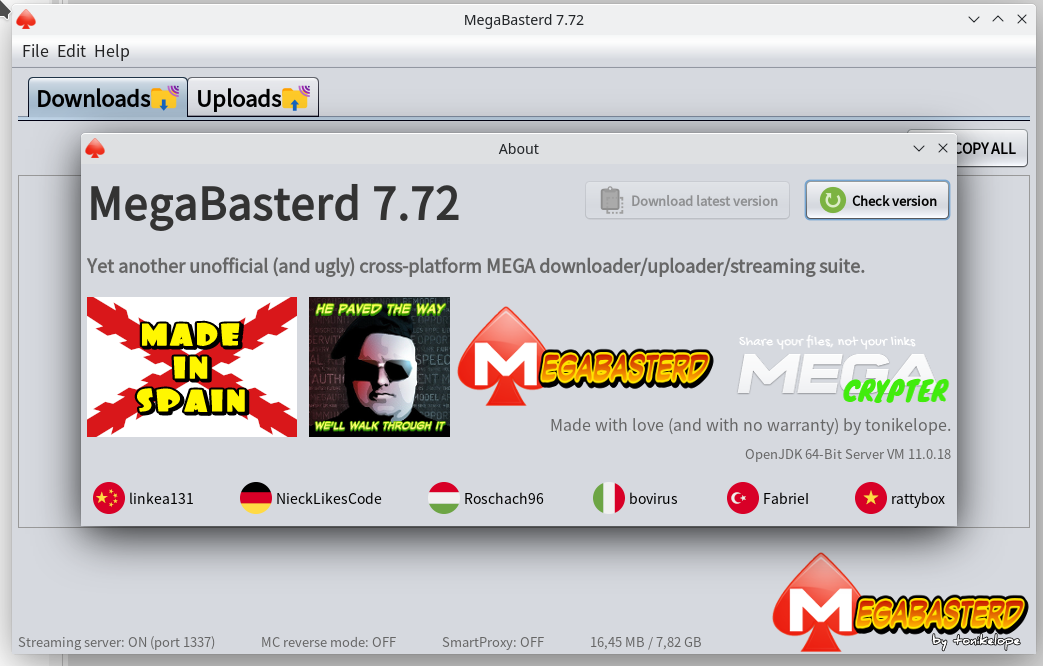
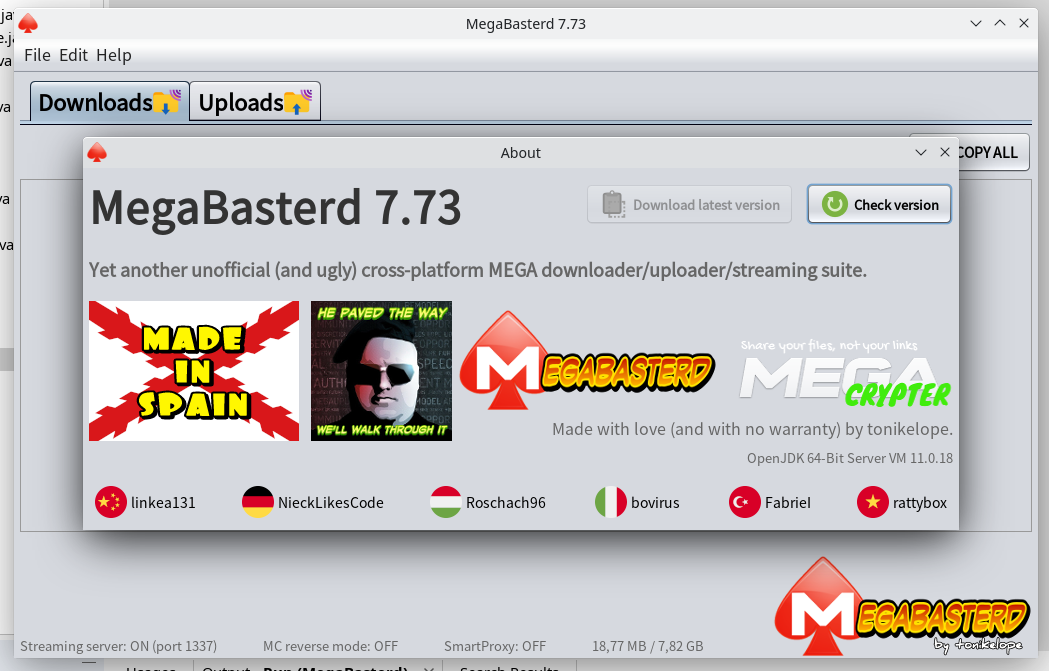
7.73
CBC-MAC optimization

diff --git a/src/main/java/com/tonikelope/megabasterd/UploadMACGenerator.java b/src/main/java/com/tonikelope/megabasterd/UploadMACGenerator.java
@@ -11,10 +11,10 @@ package com.tonikelope.megabasterd;
 
 import static com.tonikelope.megabasterd.CryptTools.*;
 import static com.tonikelope.megabasterd.MiscTools.*;
-import java.io.BufferedInputStream;
-import java.io.FileInputStream;
-import java.io.IOException;
+import java.io.ByteArrayInputStream;
+import java.io.ByteArrayOutputStream;
 import java.util.HashMap;
+import java.util.concurrent.ConcurrentHashMap;
 import java.util.logging.Level;
 import java.util.logging.Logger;
 import javax.crypto.BadPaddingException;
@@ -33,6 +33,7 @@ public class UploadMACGenerator implements Runnable, SecureSingleThreadNotifiabl
     private final Object _secure_notify_lock;
     private boolean _notified;
     private volatile boolean _exit;
+    public final ConcurrentHashMap<Long, ByteArrayOutputStream> CHUNK_QUEUE = new ConcurrentHashMap<>();
 
     public UploadMACGenerator(Upload upload) {
         _secure_notify_lock = new Object();
@@ -122,36 +123,40 @@ public class UploadMACGenerator implements Runnable, SecureSingleThreadNotifiabl
 
             Cipher cryptor = genCrypter("AES", "AES/CBC/NoPadding", _upload.getByte_file_key(), i32a2bin(mac_iv));
 
-            try ( BufferedInputStream is = new BufferedInputStream(new FileInputStream(_upload.getFile_name()))) {
+            int[] chunk_mac = new int[4];
+            byte[] byte_block = new byte[16];
+            byte[] chunk_bytes;
 
-                if (tot > 0) {
-                    is.skip(tot);
-                }
+            try {
+                while (!_exit && !_upload.isStopped() && !_upload.getMain_panel().isExit()) {
 
-                int[] chunk_mac = new int[4];
-                byte[] byte_block = new byte[16];
+                    int reads;
 
-                try {
-                    while (!_exit && !_upload.isStopped() && !_upload.getMain_panel().isExit()) {
+                    long chunk_offset = ChunkWriterManager.calculateChunkOffset(chunk_id, 1);
 
-                        int reads;
+                    long chunk_size = ChunkWriterManager.calculateChunkSize(chunk_id, _upload.getFile_size(), chunk_offset, 1);
 
-                        long chunk_offset = ChunkWriterManager.calculateChunkOffset(chunk_id, 1);
+                    ChunkWriterManager.checkChunkID(chunk_id, _upload.getFile_size(), chunk_offset);
 
-                        long chunk_size = ChunkWriterManager.calculateChunkSize(chunk_id, _upload.getFile_size(), chunk_offset, 1);
+                    while (!CHUNK_QUEUE.containsKey(chunk_offset)) {
+                        MiscTools.pausar(1000);
+                    }
 
-                        ChunkWriterManager.checkChunkID(chunk_id, _upload.getFile_size(), chunk_offset);
+                    try {
 
-                        try {
+                        chunk_mac[0] = file_iv[0];
+                        chunk_mac[1] = file_iv[1];
+                        chunk_mac[2] = file_iv[0];
+                        chunk_mac[3] = file_iv[1];
 
-                            chunk_mac[0] = file_iv[0];
-                            chunk_mac[1] = file_iv[1];
-                            chunk_mac[2] = file_iv[0];
-                            chunk_mac[3] = file_iv[1];
+                        long conta_chunk = 0L;
 
-                            long conta_chunk = 0L;
+                        try ( ByteArrayOutputStream baos = CHUNK_QUEUE.remove(chunk_offset)) {
+                            chunk_bytes = baos.toByteArray();
+                        }
 
-                            while (conta_chunk < chunk_size && (reads = is.read(byte_block)) != -1) {
+                        try ( ByteArrayInputStream bais = new ByteArrayInputStream(chunk_bytes)) {
+                            while (conta_chunk < chunk_size && (reads = bais.read(byte_block)) != -1) {
 
                                 if (reads < byte_block.length) {
                                     for (int i = reads; i < byte_block.length; i++) {
@@ -172,45 +177,46 @@ public class UploadMACGenerator implements Runnable, SecureSingleThreadNotifiabl
                                 tot += reads;
 
                             }
-
-                            for (int i = 0; i < file_mac.length; i++) {
-                                file_mac[i] ^= chunk_mac[i];
-                            }
-
-                            file_mac = bin2i32a(cryptor.doFinal(i32a2bin(file_mac)));
-
-                        } catch (IOException | IllegalBlockSizeException | BadPaddingException ex) {
-                            LOG.log(Level.SEVERE, ex.getMessage());
                         }
 
-                        chunk_id++;
-
-                        int new_cbc_per = (int) ((((double) tot) / _upload.getFile_size()) * 100);
-
-                        if (new_cbc_per != cbc_per) {
-                            _upload.getView().updateCBC("CBC-MAC " + String.valueOf(new_cbc_per) + "%");
-                            cbc_per = new_cbc_per;
+                        for (int i = 0; i < file_mac.length; i++) {
+                            file_mac[i] ^= chunk_mac[i];
                         }
+
+                        file_mac = bin2i32a(cryptor.doFinal(i32a2bin(file_mac)));
+
+                    } catch (IllegalBlockSizeException | BadPaddingException ex) {
+                        LOG.log(Level.SEVERE, ex.getMessage());
                     }
 
-                    mac = (tot == _upload.getFile_size());
+                    chunk_id++;
 
-                } catch (ChunkInvalidException e) {
+                    int new_cbc_per = (int) ((((double) tot) / _upload.getFile_size()) * 100);
 
-                    mac = true;
-                }
-
-                _upload.setTemp_mac_data(String.valueOf(tot) + "#" + String.valueOf(chunk_id) + "#" + Bin2BASE64(i32a2bin(file_mac)));
-
-                if (mac) {
-
-                    int[] meta_mac = {file_mac[0] ^ file_mac[1], file_mac[2] ^ file_mac[3]};
-
-                    _upload.setFile_meta_mac(meta_mac);
-
-                    LOG.log(Level.INFO, "{0} MAC GENERATOR {1} finished MAC CALCULATION. Waiting workers to finish uploading (if any)...", new Object[]{Thread.currentThread().getName(), getUpload().getFile_name()});
+                    if (new_cbc_per != cbc_per) {
+                        _upload.getView().updateCBC("CBC-MAC " + String.valueOf(new_cbc_per) + "%");
+                        cbc_per = new_cbc_per;
+                    }
 
                 }
+
+                mac = (tot == _upload.getFile_size());
+
+            } catch (ChunkInvalidException e) {
+
+                mac = true;
+            }
+
+            _upload.setTemp_mac_data(String.valueOf(tot) + "#" + String.valueOf(chunk_id) + "#" + Bin2BASE64(i32a2bin(file_mac)));
+
+            if (mac) {
+
+                int[] meta_mac = {file_mac[0] ^ file_mac[1], file_mac[2] ^ file_mac[3]};
+
+                _upload.setFile_meta_mac(meta_mac);
+
+                LOG.log(Level.INFO, "{0} MAC GENERATOR {1} finished MAC CALCULATION. Waiting workers to finish uploading (if any)...", new Object[]{Thread.currentThread().getName(), getUpload().getFile_name()});
+
             }
 
             while (!_exit && !_upload.isStopped() && !_upload.getChunkworkers().isEmpty()) {

diff --git a/src/main/java/com/tonikelope/megabasterd/ChunkUploader.java b/src/main/java/com/tonikelope/megabasterd/ChunkUploader.java
@@ -25,6 +25,8 @@ import java.nio.channels.Channels;
 import java.util.logging.Level;
 import java.util.logging.Logger;
 import javax.crypto.CipherInputStream;
+import org.apache.commons.io.input.QueueInputStream;
+import org.apache.commons.io.output.QueueOutputStream;
 
 /**
  *
@@ -117,6 +119,8 @@ public class ChunkUploader implements Runnable, SecureSingleThreadNotifiable {
 
         byte[] buffer = new byte[MainPanel.DEFAULT_BYTE_BUFFER_SIZE];
 
+        byte[] buffer_enc = new byte[MainPanel.DEFAULT_BYTE_BUFFER_SIZE];
+
         boolean fatal_error = false;
 
         int conta_error = 0;
@@ -141,9 +145,9 @@ public class ChunkUploader implements Runnable, SecureSingleThreadNotifiable {
 
                 chunk_id = _upload.nextChunkId();
 
-                long chunk_offset = ChunkWriterManager.calculateChunkOffset(chunk_id, Upload.CHUNK_SIZE_MULTI);
+                long chunk_offset = ChunkWriterManager.calculateChunkOffset(chunk_id, 1);
 
-                long chunk_size = ChunkWriterManager.calculateChunkSize(chunk_id, _upload.getFile_size(), chunk_offset, Upload.CHUNK_SIZE_MULTI);
+                long chunk_size = ChunkWriterManager.calculateChunkSize(chunk_id, _upload.getFile_size(), chunk_offset, 1);
 
                 ChunkWriterManager.checkChunkID(chunk_id, _upload.getFile_size(), chunk_offset);
 
@@ -194,12 +198,25 @@ public class ChunkUploader implements Runnable, SecureSingleThreadNotifiable {
 
                         f.seek(chunk_offset);
 
-                        try ( CipherInputStream cis = new CipherInputStream(new BufferedInputStream(Channels.newInputStream(f.getChannel())), genCrypter("AES", "AES/CTR/NoPadding", _upload.getByte_file_key(), forwardMEGALinkKeyIV(_upload.getByte_file_iv(), chunk_offset)));  OutputStream out = new ThrottledOutputStream(con.getOutputStream(), _upload.getMain_panel().getStream_supervisor())) {
+                        ByteArrayOutputStream chunk_mac = new ByteArrayOutputStream();
+
+                        try ( QueueInputStream qis = new QueueInputStream();  QueueOutputStream qos = qis.newQueueOutputStream();  BufferedInputStream bis = new BufferedInputStream(Channels.newInputStream(f.getChannel()));  CipherInputStream cis = new CipherInputStream(qis, genCrypter("AES", "AES/CTR/NoPadding", _upload.getByte_file_key(), forwardMEGALinkKeyIV(_upload.getByte_file_iv(), chunk_offset)));  OutputStream out = new ThrottledOutputStream(con.getOutputStream(), _upload.getMain_panel().getStream_supervisor())) {
 
                             LOG.log(Level.INFO, "{0} Uploading chunk {1} from worker {2} {3}...", new Object[]{Thread.currentThread().getName(), chunk_id, _id, _upload.getFile_name()});
 
-                            while (!_exit && tot_bytes_up < chunk_size && (reads = cis.read(buffer)) != -1) {
-                                out.write(buffer, 0, reads);
+                            while (!_exit && tot_bytes_up < chunk_size && (reads = bis.read(buffer)) != -1) {
+
+                                chunk_mac.write(buffer, 0, reads);
+
+                                for (int i = 0; i < reads; i++) {
+                                    qos.write(buffer[i]);
+                                }
+
+                                for (int i = 0; i < reads; i++) {
+                                    buffer_enc[i] = (byte) cis.read();
+                                }
+
+                                out.write(buffer_enc, 0, reads);
 
                                 _upload.getPartialProgress().add((long) reads);
 
@@ -215,6 +232,8 @@ public class ChunkUploader implements Runnable, SecureSingleThreadNotifiable {
 
                                 }
                             }
+
+                            _upload.getMac_generator().CHUNK_QUEUE.put(chunk_offset, chunk_mac);
                         }
 
                         if (!_exit) {

diff --git a/src/main/java/com/tonikelope/megabasterd/MiscTools.java b/src/main/java/com/tonikelope/megabasterd/MiscTools.java
@@ -30,6 +30,7 @@ import java.awt.image.BufferedImage;
 import java.io.BufferedInputStream;
 import java.io.ByteArrayInputStream;
 import java.io.ByteArrayOutputStream;
+import java.io.DataOutputStream;
 import java.io.File;
 import java.io.FileInputStream;
 import java.io.IOException;
@@ -48,6 +49,7 @@ import java.net.URISyntaxException;
 import java.net.URL;
 import java.net.URLDecoder;
 import java.nio.ByteBuffer;
+import java.nio.ByteOrder;
 import java.nio.IntBuffer;
 import java.nio.file.DirectoryStream;
 import java.nio.file.Files;
@@ -239,54 +241,29 @@ public class MiscTools {
     public static int[] bin2i32a(byte[] bin) {
         int l = (int) (4 * Math.ceil((double) bin.length / 4));
 
-        byte[] new_bin = Arrays.copyOfRange(bin, 0, l);
+        IntBuffer intBuf = ByteBuffer.wrap(bin, 0, l).order(ByteOrder.BIG_ENDIAN).asIntBuffer();
 
-        bin = new_bin;
+        int[] array = new int[intBuf.remaining()];
 
-        ByteBuffer bin_buffer = ByteBuffer.wrap(bin);
-        IntBuffer int_buffer = bin_buffer.asIntBuffer();
+        intBuf.get(array);
 
-        if (int_buffer.hasArray()) {
-            return int_buffer.array();
-        } else {
-            ArrayList<Integer> list = new ArrayList<>();
-
-            while (int_buffer.hasRemaining()) {
-                list.add(int_buffer.get());
-            }
-
-            int[] aux = new int[list.size()];
-
-            for (int i = 0; i < aux.length; i++) {
-                aux[i] = list.get(i);
-            }
-
-            return aux;
-        }
+        return array;
     }
 
-    public static byte[] i32a2bin(int[] i32a) {
-        ByteBuffer bin_buffer = ByteBuffer.allocate(i32a.length * 4);
-        IntBuffer int_buffer = bin_buffer.asIntBuffer();
-        int_buffer.put(i32a);
+    public static byte[] i32a2bin(int[] values) {
+        ByteArrayOutputStream baos = new ByteArrayOutputStream();
 
-        if (bin_buffer.hasArray()) {
-            return bin_buffer.array();
-        } else {
-            ArrayList<Byte> list = new ArrayList<>();
+        DataOutputStream dos = new DataOutputStream(baos);
 
-            while (int_buffer.hasRemaining()) {
-                list.add(bin_buffer.get());
+        for (int i = 0; i < values.length; ++i) {
+            try {
+                dos.writeInt(values[i]);
+            } catch (IOException ex) {
+                Logger.getLogger(MiscTools.class.getName()).log(Level.SEVERE, null, ex);
             }
-
-            byte[] aux = new byte[list.size()];
-
-            for (int i = 0; i < aux.length; i++) {
-                aux[i] = list.get(i);
-            }
-
-            return aux;
         }
+
+        return baos.toByteArray();
     }
 
     public static BigInteger mpi2big(byte[] s) {

diff --git a/src/main/java/com/tonikelope/megabasterd/UploadView.java b/src/main/java/com/tonikelope/megabasterd/UploadView.java
@@ -319,7 +319,6 @@ public class UploadView extends javax.swing.JPanel implements TransferenceView {
         open_browser_button.setFont(new java.awt.Font("Dialog", 1, 16)); // NOI18N
         open_browser_button.setIcon(new javax.swing.ImageIcon(getClass().getResource("/images/icons8-export-30.png"))); // NOI18N
         open_browser_button.setText("Open folder in browser");
-        open_browser_button.setCursor(new java.awt.Cursor(java.awt.Cursor.HAND_CURSOR));
         open_browser_button.setDoubleBuffered(true);
         open_browser_button.addActionListener(new java.awt.event.ActionListener() {
             public void actionPerformed(java.awt.event.ActionEvent evt) {
@@ -398,11 +397,12 @@ public class UploadView extends javax.swing.JPanel implements TransferenceView {
                     .addComponent(file_name_label)
                     .addComponent(slot_status_label))
                 .addPreferredGap(javax.swing.LayoutStyle.ComponentPlacement.RELATED)
-                .addGroup(layout.createParallelGroup(javax.swing.GroupLayout.Alignment.BASELINE)
-                    .addComponent(folder_link_button)
-                    .addComponent(file_link_button)
-                    .addComponent(file_size_label)
-                    .addComponent(open_browser_button, javax.swing.GroupLayout.DEFAULT_SIZE, javax.swing.GroupLayout.DEFAULT_SIZE, Short.MAX_VALUE))
+                .addGroup(layout.createParallelGroup(javax.swing.GroupLayout.Alignment.LEADING)
+                    .addComponent(open_browser_button)
+                    .addGroup(layout.createParallelGroup(javax.swing.GroupLayout.Alignment.BASELINE)
+                        .addComponent(folder_link_button)
+                        .addComponent(file_link_button)
+                        .addComponent(file_size_label)))
                 .addPreferredGap(javax.swing.LayoutStyle.ComponentPlacement.RELATED)
                 .addComponent(progress_pbar, javax.swing.GroupLayout.PREFERRED_SIZE, javax.swing.GroupLayout.DEFAULT_SIZE, javax.swing.GroupLayout.PREFERRED_SIZE)
                 .addPreferredGap(javax.swing.LayoutStyle.ComponentPlacement.RELATED)

diff --git a/src/main/java/com/tonikelope/megabasterd/Upload.java b/src/main/java/com/tonikelope/megabasterd/Upload.java
@@ -39,7 +39,6 @@ import javax.swing.JComponent;
 public class Upload implements Transference, Runnable, SecureSingleThreadNotifiable {
 
     public static final int WORKERS_DEFAULT = 6;
-    public static final int CHUNK_SIZE_MULTI = 1; //Otra cosa da errores al reanudar una subida (investigar)
     public static final boolean DEFAULT_THUMBNAILS = true;
     public static final boolean UPLOAD_LOG = false;
     private static final Logger LOG = Logger.getLogger(Upload.class.getName());
@@ -62,7 +61,7 @@ public class Upload implements Transference, Runnable, SecureSingleThreadNotifia
     private long _last_chunk_id_dispatched;
     private final ConcurrentLinkedQueue<Long> _partialProgressQueue;
     private final ExecutorService _thread_pool;
-    private int[] _file_meta_mac;
+    private volatile int[] _file_meta_mac;
     private String _fid;
     private boolean _notified;
     private volatile String _completion_handler;
@@ -1305,7 +1304,7 @@ public class Upload implements Transference, Runnable, SecureSingleThreadNotifia
     public long calculateLastUploadedChunk(long bytes_read) {
 
         if (bytes_read > 3584 * 1024) {
-            return 7 + (long) Math.floor((float) (bytes_read - 3584 * 1024) / (1024 * 1024 * Upload.CHUNK_SIZE_MULTI));
+            return 7 + (long) Math.floor((float) (bytes_read - 3584 * 1024) / (1024 * 1024 * 1));
         } else {
             long i = 0, tot = 0;
 

diff --git a/src/main/java/com/tonikelope/megabasterd/MainPanel.java b/src/main/java/com/tonikelope/megabasterd/MainPanel.java
@@ -67,7 +67,7 @@ import javax.swing.UIManager;
  */
 public final class MainPanel {
 
-    public static final String VERSION = "7.72";
+    public static final String VERSION = "7.73";
     public static final boolean FORCE_SMART_PROXY = false; //TRUE FOR DEBUGING SMART PROXY
     public static final int THROTTLE_SLICE_SIZE = 16 * 1024;
     public static final int DEFAULT_BYTE_BUFFER_SIZE = 16 * 1024;
